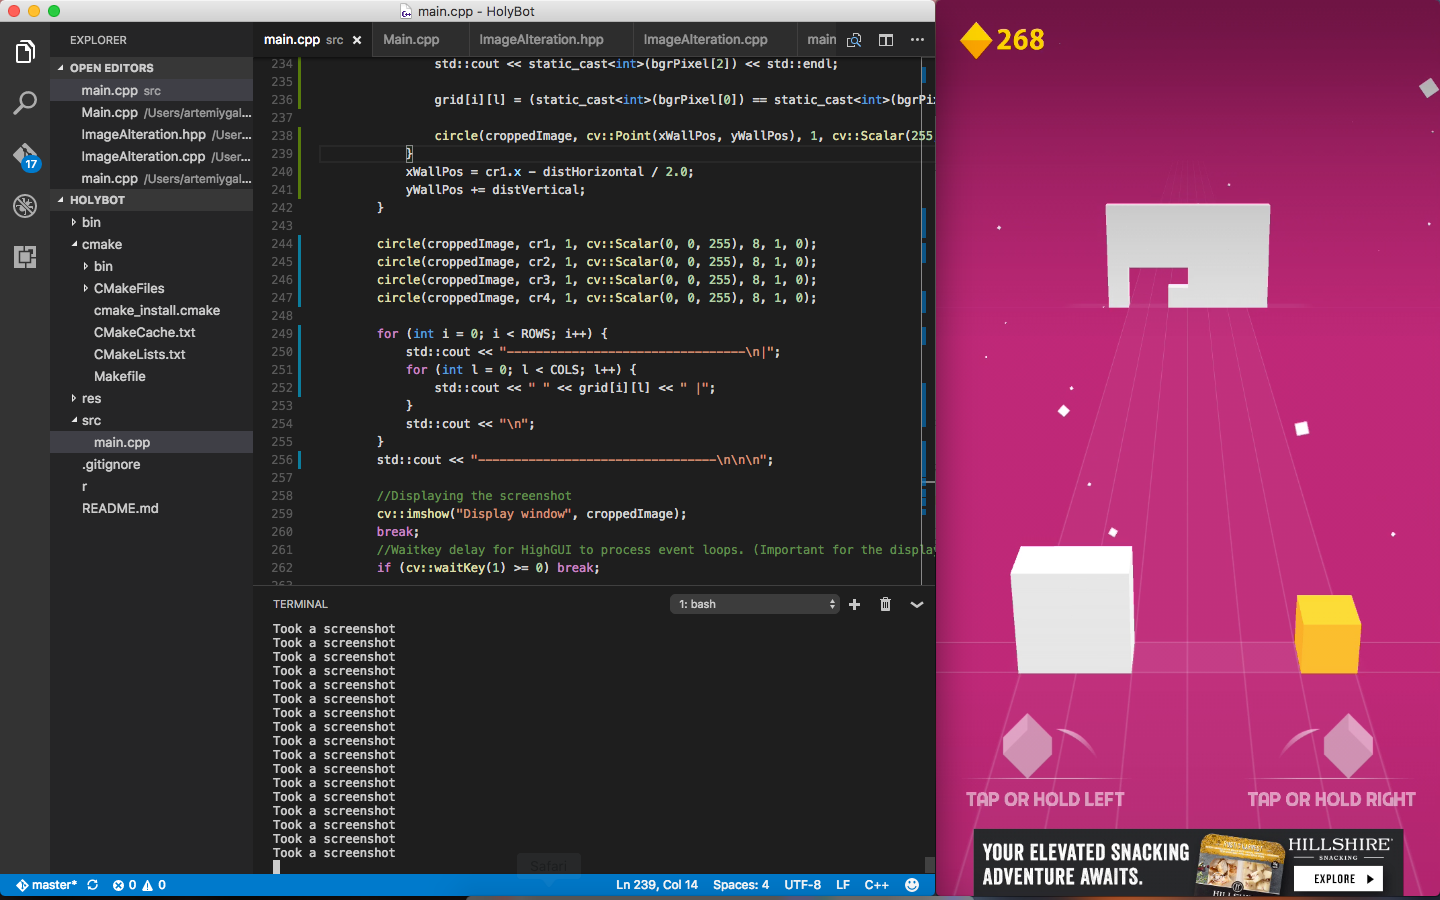
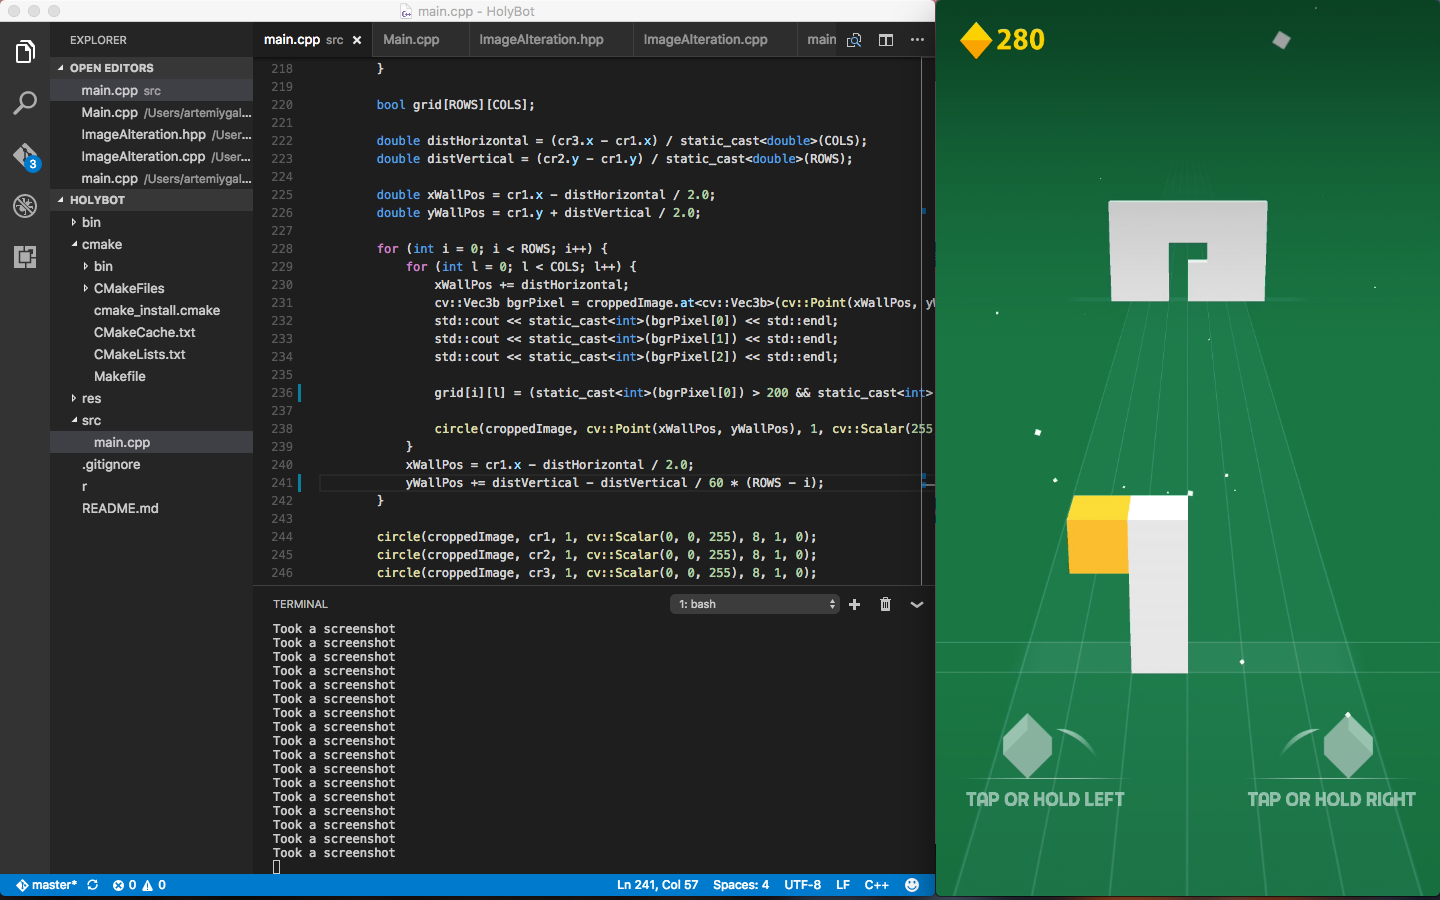
Perfect holes detection

diff --git a/src/main.cpp b/src/main.cpp
@@ -84,8 +84,8 @@ int main( int argc, char** argv) {
         //Skip all frames except for the one when the wall is at certain position
         cv::Vec3b bgrPixel3 = croppedImage.at<cv::Vec3b>(cv::Point(croppedImage.cols / 3, croppedImage.rows / 3));
         cv::Vec3b bgrPixel4 = croppedImage.at<cv::Vec3b>(cv::Point(croppedImage.cols * 2 / 3.3, croppedImage.rows / 3));
-        circle(croppedImage, cv::Point(croppedImage.cols / 3, croppedImage.rows / 3), 1, cv::Scalar(0, 255, 0), 8, 1, 0);
-        circle(croppedImage, cv::Point(croppedImage.cols * 2 / 3.3, croppedImage.rows / 3), 1, cv::Scalar(0, 255, 0), 8, 1, 0);
+        //circle(croppedImage, cv::Point(croppedImage.cols / 3, croppedImage.rows / 3), 1, cv::Scalar(0, 255, 0), 8, 1, 0);
+        //circle(croppedImage, cv::Point(croppedImage.cols * 2 / 3.3, croppedImage.rows / 3), 1, cv::Scalar(0, 255, 0), 8, 1, 0);
         
         /*
         std::cout << static_cast<int>(bgrPixel3[0]) << std::endl;
@@ -233,12 +233,12 @@ int main( int argc, char** argv) {
                 std::cout << static_cast<int>(bgrPixel[1]) << std::endl;
                 std::cout << static_cast<int>(bgrPixel[2]) << std::endl;
 
-                grid[i][l] = (static_cast<int>(bgrPixel[0]) == static_cast<int>(bgrPixel[1]) && static_cast<int>(bgrPixel[0]) == static_cast<int>(bgrPixel[2]));
+                grid[i][l] = (static_cast<int>(bgrPixel[0]) > 200 && static_cast<int>(bgrPixel[1]) > 200 && static_cast<int>(bgrPixel[2]) > 200);
 
                 circle(croppedImage, cv::Point(xWallPos, yWallPos), 1, cv::Scalar(255, 0, 255), 8, 1, 0);
             }
             xWallPos = cr1.x - distHorizontal / 2.0;
-            yWallPos += distVertical;
+            yWallPos += distVertical - distVertical / 60 * (ROWS - i);
         }
 
         circle(croppedImage, cr1, 1, cv::Scalar(0, 0, 255), 8, 1, 0);
